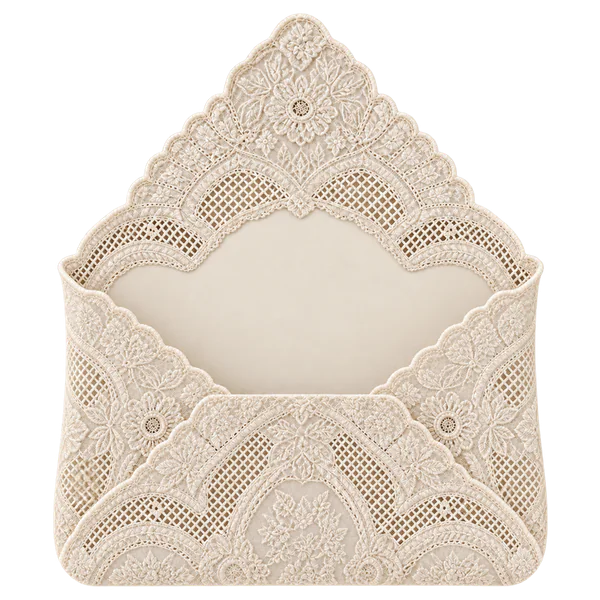
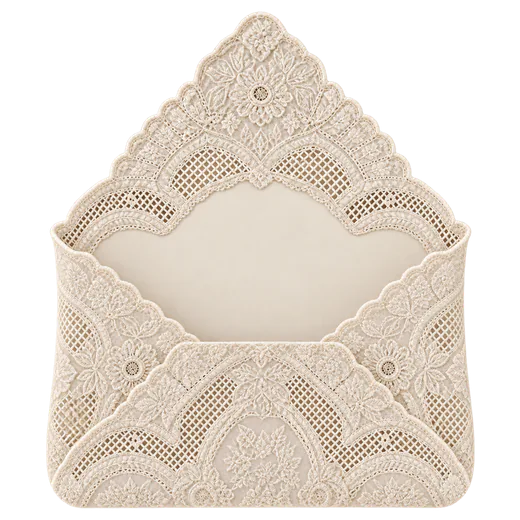
perf(media): route native gallery through COS
Use the existing 720x1077/1080 Tencent COS gallery WebPs directly instead of the transformed 600x900 requests or the heavier GitHub-hosted quality-88 copies; retain the latter as per-image fallbacks. Reduce the first-screen lace envelope to 520x520/57KB and the wide envelope photo to 720x842/111KB while keeping sufficient display pixel density. Remove service-worker activation warming so upgrades do not compete with the active guest flow.\n\nValidation: 1Mbps/200ms cold-cache test confirmed a 520px envelope shell, 720px envelope photo, no audio/gallery before the first screen, COS 720x1077/1080 first-three gallery images in the poem, five carousel changes at 2.18/2.48/2.36/2.38/2.38s, no fallback use, no page overflow, and no application console errors. COS native gallery totals about 0.88MB; GitHub quality-88 gallery remains the fallback. Source revision: previous branch commit 0c4c3fd. Rollback revision: cc01eaa.

diff --git a/index.html b/index.html
@@ -79,15 +79,15 @@
     <div class="intro-heading"><p class="invitation-title">Wedding Invitation</p><p class="handwriting">Li <span class="ampersand">&amp;</span> Gao</p></div>
     <div class="envelope-wrap" id="envelopeWrap">
       <div class="envelope-stage">
-        <img class="envelope-back" src="assets/lace-envelope-fast-20261006.webp" alt="" aria-hidden="true" width="600" height="600" fetchpriority="high">
+        <img class="envelope-back" src="assets/lace-envelope-fast-20261006.webp" alt="" aria-hidden="true" width="520" height="520" fetchpriority="high">
         <div class="letter-slot">
           <figure class="letter-card" id="letterCard" aria-hidden="true">
-            <img data-src="assets/envelope-photo-wide-20261005.webp" width="900" height="1053" alt="我们在树下举着 Save the Date 婚礼日期牌的照片" decoding="async">
+            <img data-src="assets/envelope-photo-fast-20261006.webp" width="900" height="1053" alt="我们在树下举着 Save the Date 婚礼日期牌的照片" decoding="async">
             <figcaption>Li &amp; Gao</figcaption>
           </figure>
         </div>
-        <img class="envelope-pocket" src="assets/lace-envelope-fast-20261006.webp" alt="" aria-hidden="true" width="600" height="600">
-        <img class="envelope-flap" src="assets/lace-envelope-fast-20261006.webp" alt="" aria-hidden="true" width="600" height="600">
+        <img class="envelope-pocket" src="assets/lace-envelope-fast-20261006.webp" alt="" aria-hidden="true" width="520" height="520">
+        <img class="envelope-flap" src="assets/lace-envelope-fast-20261006.webp" alt="" aria-hidden="true" width="520" height="520">
         <img class="wax-seal" src="https://wedding-invitation-1452764663.cos.ap-shanghai.myqcloud.com/assets/assets/seal-20260925.webp" data-fallback-src="assets/seal-20260925.webp" alt="" aria-hidden="true" width="280" height="280">
         <button class="envelope-trigger" id="openEnvelope" type="button" aria-label="轻触信封，打开婚礼邀请信" aria-expanded="false" aria-controls="letterCard"></button>
       </div>
@@ -125,26 +125,26 @@
     <header class="guide-head"><p class="welcome">Welcome to our wedding</p></header>
     <figure class="photo-shell" aria-label="新人照片轮播">
       <div class="photo-mat"><div class="photos" id="photos">
-        <img data-src="assets/gallery-01-clear-20261005.webp" data-fallback-src="assets/gallery-01-20260925.webp" alt="新人婚纱照 1" class="active" decoding="async">
-        <img data-src="assets/gallery-02-clear-20261005.webp" data-fallback-src="assets/gallery-02-20260925.webp" alt="新人婚纱照 2" hidden decoding="async">
-        <img data-src="assets/gallery-03-clear-20261005.webp" data-fallback-src="assets/gallery-03-20260925.webp" alt="新人婚纱照 3" hidden decoding="async">
-        <img data-src="assets/gallery-04-clear-20261005.webp" data-fallback-src="assets/gallery-04-20260925.webp" alt="新人婚纱照 4" hidden decoding="async">
-        <img data-src="assets/gallery-05-clear-20261005.webp" data-fallback-src="assets/gallery-05-20260925.webp" alt="新人婚纱照 5" hidden decoding="async">
-        <img data-src="assets/gallery-06-clear-20261005.webp" data-fallback-src="assets/gallery-06-20260925.webp" alt="新人婚纱照 6" hidden decoding="async">
-        <img data-src="assets/gallery-07-clear-20261005.webp" data-fallback-src="assets/gallery-07-20260925.webp" alt="新人婚纱照 7" hidden decoding="async">
-        <img data-src="assets/gallery-08-clear-20261005.webp" data-fallback-src="assets/gallery-08-20260925.webp" alt="新人婚纱照 8" hidden decoding="async">
-        <img data-src="assets/gallery-09-clear-20261005.webp" data-fallback-src="assets/gallery-09-20260925.webp" alt="新人婚纱照 9" hidden decoding="async">
-        <img data-src="assets/gallery-10-clear-20261005.webp" data-fallback-src="assets/gallery-10-20260925.webp" alt="新人婚纱照 10" hidden decoding="async">
-        <img data-src="assets/gallery-11-clear-20261005.webp" data-fallback-src="assets/gallery-11-20260925.webp" alt="新人婚纱照 11" hidden decoding="async">
-        <img data-src="assets/gallery-12-clear-20261005.webp" data-fallback-src="assets/gallery-12-20260925.webp" alt="新人婚纱照 12" hidden decoding="async">
-        <img data-src="assets/gallery-13-clear-20261005.webp" data-fallback-src="assets/gallery-13-20260925.webp" alt="新人婚纱照 13" hidden decoding="async">
-        <img data-src="assets/gallery-14-clear-20261005.webp" data-fallback-src="assets/gallery-14-20260925.webp" alt="新人婚纱照 14" hidden decoding="async">
-        <img data-src="assets/gallery-15-clear-20261005.webp" data-fallback-src="assets/gallery-15-20260925.webp" alt="新人婚纱照 15" hidden decoding="async">
-        <img data-src="assets/gallery-16-clear-20261005.webp" data-fallback-src="assets/gallery-16-20260925.webp" alt="新人婚纱照 16" hidden decoding="async">
-        <img data-src="assets/gallery-17-clear-20261005.webp" data-fallback-src="assets/gallery-17-20260925.webp" alt="新人婚纱照 17" hidden decoding="async">
-        <img data-src="assets/gallery-18-clear-20261005.webp" data-fallback-src="assets/gallery-18-20260925.webp" alt="新人婚纱照 18" hidden decoding="async">
-        <img data-src="assets/gallery-19-clear-20261005.webp" data-fallback-src="assets/gallery-19-20260925.webp" alt="新人婚纱照 19" hidden decoding="async">
-        <img data-src="assets/gallery-20-clear-20261005.webp" data-fallback-src="assets/gallery-20-20260925.webp" alt="新人婚纱照 20" hidden decoding="async">
+        <img data-src="https://wedding-invitation-1452764663.cos.ap-shanghai.myqcloud.com/assets/assets/gallery-01-20260925.webp" data-fallback-src="assets/gallery-01-clear-20261005.webp" alt="新人婚纱照 1" class="active" decoding="async">
+        <img data-src="https://wedding-invitation-1452764663.cos.ap-shanghai.myqcloud.com/assets/assets/gallery-02-20260925.webp" data-fallback-src="assets/gallery-02-clear-20261005.webp" alt="新人婚纱照 2" hidden decoding="async">
+        <img data-src="https://wedding-invitation-1452764663.cos.ap-shanghai.myqcloud.com/assets/assets/gallery-03-20260925.webp" data-fallback-src="assets/gallery-03-clear-20261005.webp" alt="新人婚纱照 3" hidden decoding="async">
+        <img data-src="https://wedding-invitation-1452764663.cos.ap-shanghai.myqcloud.com/assets/assets/gallery-04-20260925.webp" data-fallback-src="assets/gallery-04-clear-20261005.webp" alt="新人婚纱照 4" hidden decoding="async">
+        <img data-src="https://wedding-invitation-1452764663.cos.ap-shanghai.myqcloud.com/assets/assets/gallery-05-20260925.webp" data-fallback-src="assets/gallery-05-clear-20261005.webp" alt="新人婚纱照 5" hidden decoding="async">
+        <img data-src="https://wedding-invitation-1452764663.cos.ap-shanghai.myqcloud.com/assets/assets/gallery-06-20260925.webp" data-fallback-src="assets/gallery-06-clear-20261005.webp" alt="新人婚纱照 6" hidden decoding="async">
+        <img data-src="https://wedding-invitation-1452764663.cos.ap-shanghai.myqcloud.com/assets/assets/gallery-07-20260925.webp" data-fallback-src="assets/gallery-07-clear-20261005.webp" alt="新人婚纱照 7" hidden decoding="async">
+        <img data-src="https://wedding-invitation-1452764663.cos.ap-shanghai.myqcloud.com/assets/assets/gallery-08-20260925.webp" data-fallback-src="assets/gallery-08-clear-20261005.webp" alt="新人婚纱照 8" hidden decoding="async">
+        <img data-src="https://wedding-invitation-1452764663.cos.ap-shanghai.myqcloud.com/assets/assets/gallery-09-20260925.webp" data-fallback-src="assets/gallery-09-clear-20261005.webp" alt="新人婚纱照 9" hidden decoding="async">
+        <img data-src="https://wedding-invitation-1452764663.cos.ap-shanghai.myqcloud.com/assets/assets/gallery-10-20260925.webp" data-fallback-src="assets/gallery-10-clear-20261005.webp" alt="新人婚纱照 10" hidden decoding="async">
+        <img data-src="https://wedding-invitation-1452764663.cos.ap-shanghai.myqcloud.com/assets/assets/gallery-11-20260925.webp" data-fallback-src="assets/gallery-11-clear-20261005.webp" alt="新人婚纱照 11" hidden decoding="async">
+        <img data-src="https://wedding-invitation-1452764663.cos.ap-shanghai.myqcloud.com/assets/assets/gallery-12-20260925.webp" data-fallback-src="assets/gallery-12-clear-20261005.webp" alt="新人婚纱照 12" hidden decoding="async">
+        <img data-src="https://wedding-invitation-1452764663.cos.ap-shanghai.myqcloud.com/assets/assets/gallery-13-20260925.webp" data-fallback-src="assets/gallery-13-clear-20261005.webp" alt="新人婚纱照 13" hidden decoding="async">
+        <img data-src="https://wedding-invitation-1452764663.cos.ap-shanghai.myqcloud.com/assets/assets/gallery-14-20260925.webp" data-fallback-src="assets/gallery-14-clear-20261005.webp" alt="新人婚纱照 14" hidden decoding="async">
+        <img data-src="https://wedding-invitation-1452764663.cos.ap-shanghai.myqcloud.com/assets/assets/gallery-15-20260925.webp" data-fallback-src="assets/gallery-15-clear-20261005.webp" alt="新人婚纱照 15" hidden decoding="async">
+        <img data-src="https://wedding-invitation-1452764663.cos.ap-shanghai.myqcloud.com/assets/assets/gallery-16-20260925.webp" data-fallback-src="assets/gallery-16-clear-20261005.webp" alt="新人婚纱照 16" hidden decoding="async">
+        <img data-src="https://wedding-invitation-1452764663.cos.ap-shanghai.myqcloud.com/assets/assets/gallery-17-20260925.webp" data-fallback-src="assets/gallery-17-clear-20261005.webp" alt="新人婚纱照 17" hidden decoding="async">
+        <img data-src="https://wedding-invitation-1452764663.cos.ap-shanghai.myqcloud.com/assets/assets/gallery-18-20260925.webp" data-fallback-src="assets/gallery-18-clear-20261005.webp" alt="新人婚纱照 18" hidden decoding="async">
+        <img data-src="https://wedding-invitation-1452764663.cos.ap-shanghai.myqcloud.com/assets/assets/gallery-19-20260925.webp" data-fallback-src="assets/gallery-19-clear-20261005.webp" alt="新人婚纱照 19" hidden decoding="async">
+        <img data-src="https://wedding-invitation-1452764663.cos.ap-shanghai.myqcloud.com/assets/assets/gallery-20-20260925.webp" data-fallback-src="assets/gallery-20-clear-20261005.webp" alt="新人婚纱照 20" hidden decoding="async">
       </div></div>
       <img class="french-frame" data-src="https://wedding-invitation-1452764663.cos.ap-shanghai.myqcloud.com/assets/assets/oval-lace-20260925.webp" data-fallback-src="assets/oval-lace-20260925.webp" alt="" aria-hidden="true" width="640" height="960">
     </figure>

diff --git a/service-worker.js b/service-worker.js
@@ -6,15 +6,14 @@ const COS_ORIGIN = 'https://wedding-invitation-1452764663.cos.ap-shanghai.myqclo
 const MEDIA_URLS = [
   `${COS_ORIGIN}/assets/assets/lace-ornament-bg-20260925.webp`,
   `${COS_ORIGIN}/assets/assets/seal-20260925.webp`,
-  new URL('./assets/envelope-photo-wide-20261005.webp', self.location).href,
+  new URL('./assets/envelope-photo-fast-20261006.webp', self.location).href,
   `${COS_ORIGIN}/assets/assets/fountain-birds-20260925.webp`,
   `${COS_ORIGIN}/assets/assets/oval-lace-20260925.webp`,
   ...Array.from(
     { length: 20 },
-    (_, index) => new URL(`./assets/gallery-${String(index + 1).padStart(2, '0')}-clear-20261005.webp`, self.location).href,
+    (_, index) => `${COS_ORIGIN}/assets/assets/gallery-${String(index + 1).padStart(2, '0')}-20260925.webp`,
   ),
 ];
-const WARM_MEDIA = MEDIA_URLS.slice(0, 3);
 const NAVIGATION_FALLBACK = './index.html?v=fast-first-v1-20260927';
 const CORE = [
   NAVIGATION_FALLBACK,
@@ -86,7 +85,6 @@ self.addEventListener('activate', event => {
           .filter(key => key.startsWith('wedding-invitation-') && ![CACHE, MEDIA_CACHE].includes(key))
           .map(key => caches.delete(key)),
       )),
-      warmMedia(WARM_MEDIA),
       self.clients.claim(),
     ]),
   );
